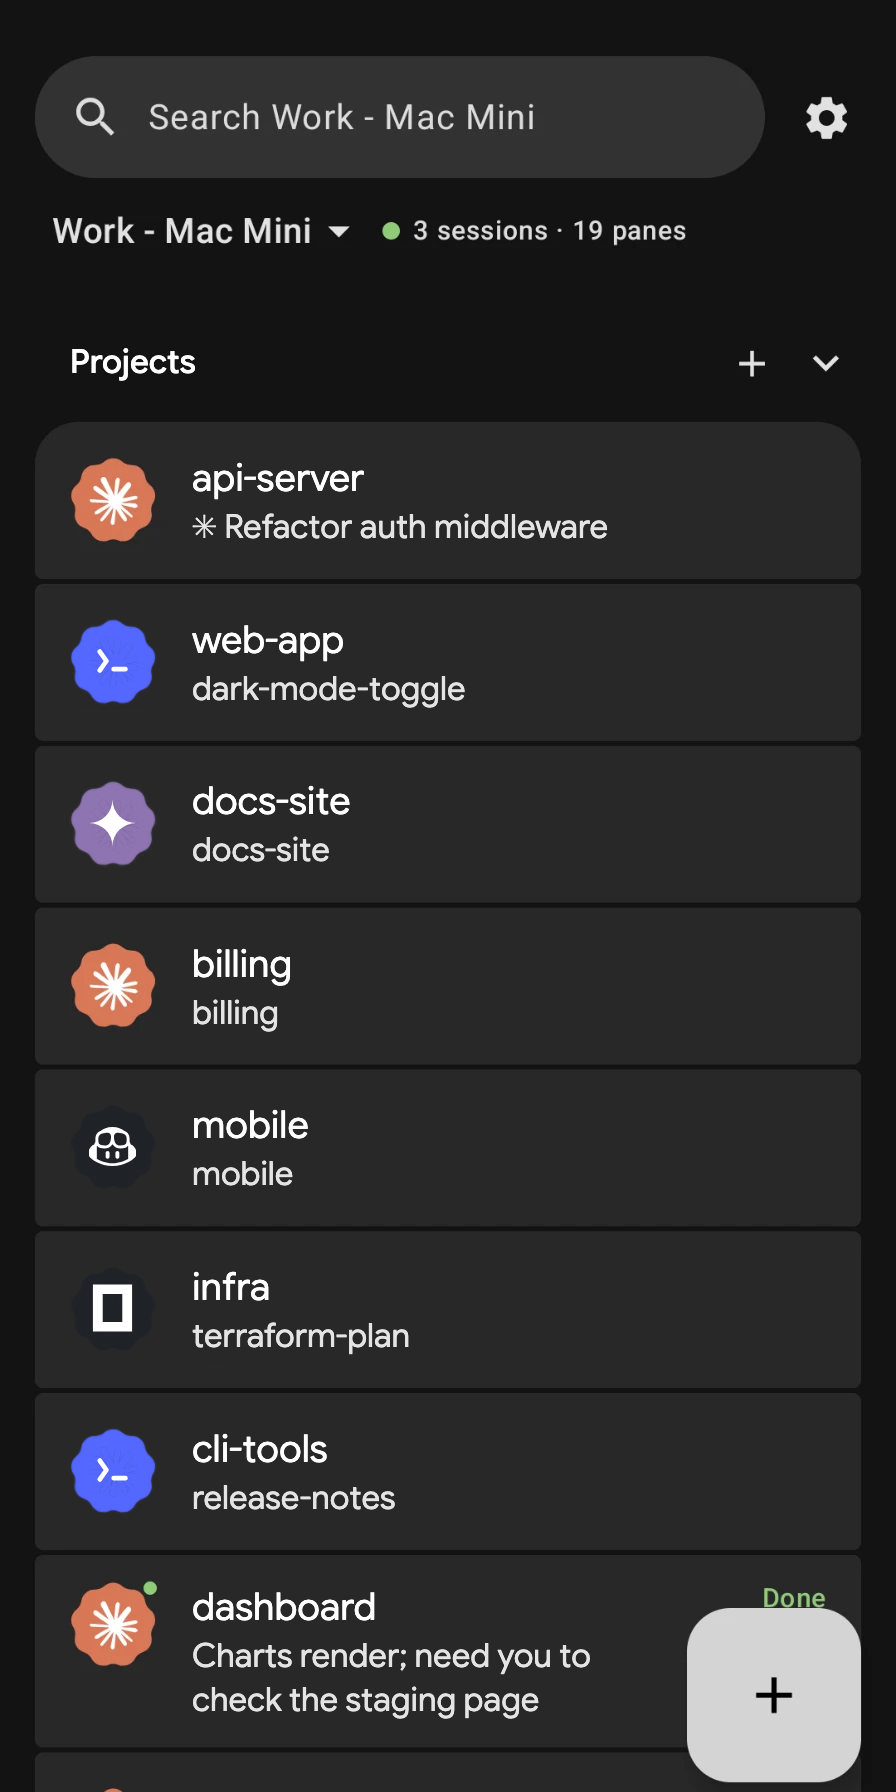
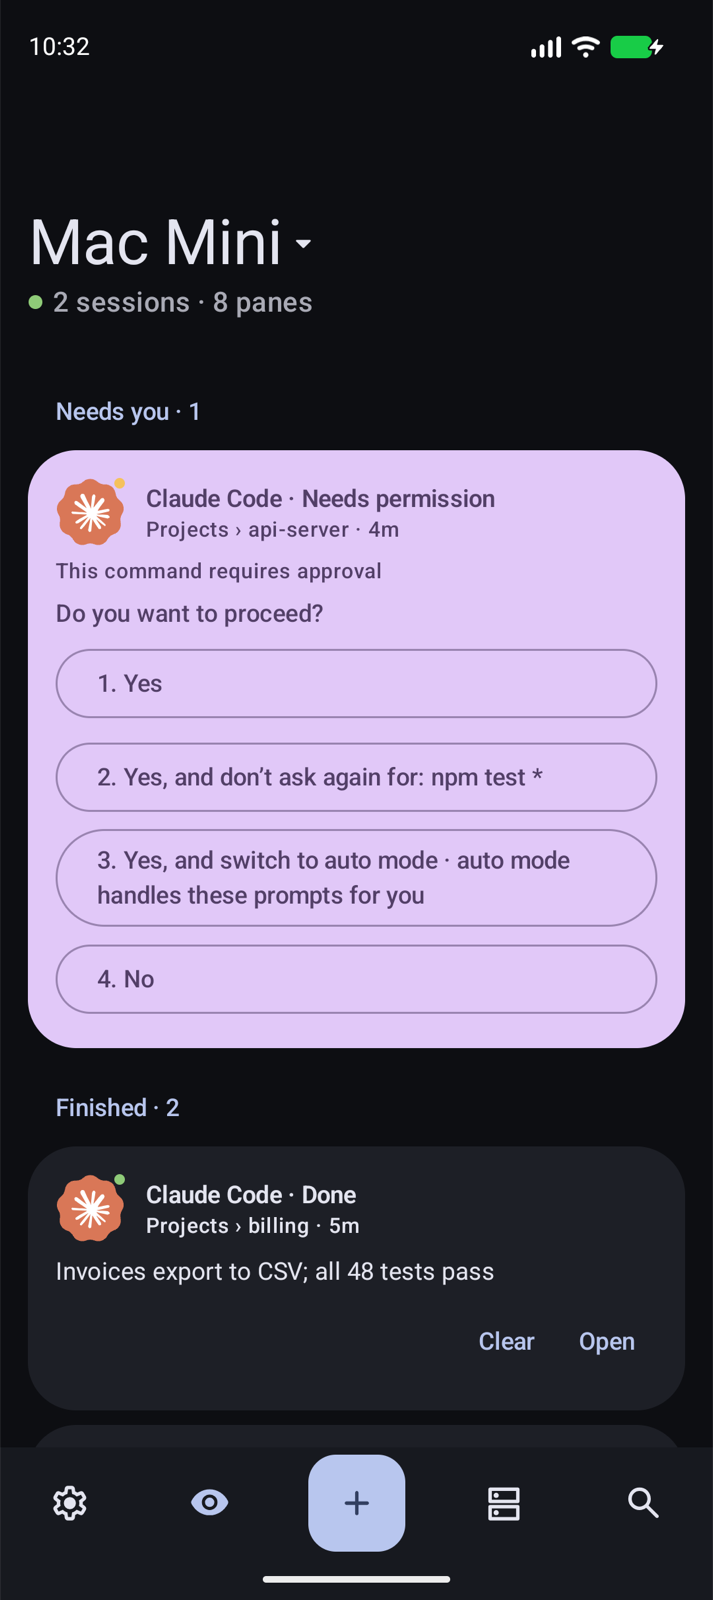
0.17.2: readable answer buttons, agent names, new screenshots
- Answer buttons on the Needs you card use the card's own text colour,
  so they read on any wallpaper palette; the highlighted option in a
  pane's answer card is a solid button.
- The pane subtitle names the agent ("Claude Code") instead of its
  program ID.
- Debug builds can reach a development Rex server on the Mac without TLS
  (10.0.2.2, or 127.0.0.1 through adb reverse).
- README: new screenshots (Home, Claude Code, Codex, New session), taken
  against a demo server; setting names updated. Version 0.17.2 (39).

Claude-Session: https://claude.ai/code/session_01BStxhsAcwtQWRkY7xQRNiL

diff --git a/app/src/main/java/dev/jwise/rhubarb/ui/ClaudeControls.kt b/app/src/main/java/dev/jwise/rhubarb/ui/ClaudeControls.kt
@@ -54,8 +54,10 @@ fun AnswerCard(p: MenuPrompt, busy: Boolean, onAnswer: (MenuOption) -> Unit) {
                 val content: @Composable () -> Unit = {
                     Text("${o.number}. ${o.label}", maxLines = 2, overflow = TextOverflow.Ellipsis, modifier = Modifier.fillMaxWidth())
                 }
-                if (o.selected) FilledTonalButton(onClick = { onAnswer(o) }, enabled = !busy, modifier = Modifier.fillMaxWidth()) { content() }
-                else OutlinedButton(onClick = { onAnswer(o) }, enabled = !busy, modifier = Modifier.fillMaxWidth()) { content() }
+                if (o.selected) androidx.compose.material3.Button(onClick = { onAnswer(o) }, enabled = !busy, modifier = Modifier.fillMaxWidth()) { content() }
+                else OutlinedButton(onClick = { onAnswer(o) }, enabled = !busy, modifier = Modifier.fillMaxWidth(),
+                    colors = androidx.compose.material3.ButtonDefaults.outlinedButtonColors(contentColor = MaterialTheme.colorScheme.onSecondaryContainer),
+                    border = androidx.compose.foundation.BorderStroke(1.dp, MaterialTheme.colorScheme.onSecondaryContainer.copy(alpha = 0.5f))) { content() }
             }
         }
     }

diff --git a/app/src/main/java/dev/jwise/rhubarb/ui/HomeScreen.kt b/app/src/main/java/dev/jwise/rhubarb/ui/HomeScreen.kt
@@ -641,7 +641,13 @@ private fun BoardCard(
                 }
                 Text(prompt.question ?: "Claude Code is asking", style = MaterialTheme.typography.bodyMedium, fontWeight = FontWeight.Medium)
                 prompt.answers.forEach { o ->
-                    androidx.compose.material3.OutlinedButton(onClick = { onAnswer(prompt, o) }, enabled = !busy, modifier = Modifier.fillMaxWidth()) {
+                    // The card's own text colour, so the buttons read on any tonal container.
+                    val onCard = androidx.compose.material3.contentColorFor(container)
+                    androidx.compose.material3.OutlinedButton(
+                        onClick = { onAnswer(prompt, o) }, enabled = !busy, modifier = Modifier.fillMaxWidth(),
+                        colors = androidx.compose.material3.ButtonDefaults.outlinedButtonColors(contentColor = onCard),
+                        border = androidx.compose.foundation.BorderStroke(1.dp, onCard.copy(alpha = 0.5f)),
+                    ) {
                         Text("${o.number}. ${o.label}", maxLines = 2, overflow = TextOverflow.Ellipsis, modifier = Modifier.fillMaxWidth())
                     }
                 }

diff --git a/app/src/main/java/dev/jwise/rhubarb/ui/TerminalScreen.kt b/app/src/main/java/dev/jwise/rhubarb/ui/TerminalScreen.kt
@@ -466,7 +466,7 @@ fun TerminalScreen(sessionId: String, blockId: String, onBack: () -> Unit) {
                             status,
                             "password prompt".takeIf { passwordPrompt },
                             (conn as? dev.jwise.rhubarb.rex.ConnState.Failed)?.reason,
-                            statusLabel(bl?.top)?.let { "${bl?.top?.app ?: ""} $it".trim() },
+                            statusLabel(bl?.top)?.let { "${prog.name.takeIf { prog.agent } ?: ""} $it".trim() },
                             bl?.title?.ifBlank { null },
                         ).joinToString(" · ")
                         Row(verticalAlignment = Alignment.CenterVertically) {

diff --git a/README.md b/README.md
@@ -9,9 +9,9 @@ unofficial client built on the API that every Rex server documents about itself 
 > Code by Anthropic). I directed, reviewed and tested each change on real devices against a real
 > Rex server; the AI wrote much of the code under that direction.
 
-| Sessions | Terminal | New session | Alerts |
+| Home | Claude Code | Codex | New session |
 | :---: | :---: | :---: | :---: |
-| <img src="store/screenshots/1-home.png" alt="Home screen: sessions and tabs, each with the coding agent running in it" width="200"> | <img src="store/screenshots/2-terminal.png" alt="A pane running Claude Code, drawn by Ghostty, with the phone key bar" width="200"> | <img src="store/screenshots/3-new-session.png" alt="New session sheet: name, starting folder and which agent to start" width="200"> | <img src="store/screenshots/4-notification.png" alt="A notification that Claude Code finished" width="200"> |
+| <img src="store/screenshots/1-home.png" alt="Home: the Needs you board with Claude Code's permission prompt as buttons, finished and working agents, and the bottom bar" width="200"> | <img src="store/screenshots/2-terminal.png" alt="A Claude Code pane: its permission prompt as answer buttons, the controls strip, key bar and message box" width="200"> | <img src="store/screenshots/3-codex.png" alt="A Codex pane with its own controls strip: mode, model and commands" width="200"> | <img src="store/screenshots/4-new-session.png" alt="New session sheet: name, starting folder and which agent to start" width="200"> |
 
 ## Get it
 
@@ -47,9 +47,9 @@ GitHub builds are signed differently and can't update each other, so stick with 
   CLI and Gemini CLI get their own strips: their mode (Shift+Tab), model picker and commands.
 - **Needs you board**: Home groups agents by what they need (waiting on you, failed, finished,
   working) with how long ago each changed. Finished work stays until you open it or clear it
-  (or swipe it away). Turn it off in Settings.
+  (or swipe it away). The eye in Home's bottom bar shows or hides it.
 - **Live progress**: while an agent works, a silent notification shows its progress and a timer;
-  on Android 16 it's also a chip in the status bar. Needs Watch in background when Rhubarb is closed.
+  on Android 16 it's also a chip in the status bar. Needs Settings → Notifications → Background when Rhubarb is closed.
 - **Message box** in every pane: one wide pill like the Claude app, with autocorrect: + to attach
   a photo or any file, the text, Enter/Send/Stop, and a mic for dictation through Android's own
   speech-to-text. Tapping the terminal puts the cursor there; the key bar's Keyboard chip still
@@ -74,7 +74,7 @@ GitHub builds are signed differently and can't update each other, so stick with 
   with a phone-friendly key bar (Esc, sticky Ctrl/Alt/Shift, Tab, arrows that repeat, hold
   Ctrl for common chords, hold Enter for a new line that isn't sent), paste, long-press to
   copy, and long-press a link to open, copy or share it. Panes fit the phone while open and get the Mac's size back when you leave
-  (Settings → Terminal → Fit panes to phone turns this off and shows the Mac's grid with zoom).
+  (Settings → Terminal → Fit to phone turns this off and shows the Mac's grid with zoom).
   If the Mac takes a pane while it's open on the phone, the phone lets it go and returns to
   the pane list.
 - **Send images to the Mac**: the image button in a pane (or Paste with an image copied, or an
@@ -144,7 +144,7 @@ adb install -r ~/Library/Caches/rexAndroid/app/outputs/apk/debug/app-debug.apk
 
 1. Install Tailscale on your Android device and sign in with the same account as the Mac.
 2. Open Rhubarb and enter the server address, for example `my-mac-rex.tailnet.ts.net`.
-3. Optional: turn on **Watch in background** to get alerts while the app is closed. This
+3. Optional: turn on **Settings → Notifications → Background** to get alerts while the app is closed. This
    keeps a foreground-service connection open, because Rex has no push channel to phones.
 
 ## Layout
